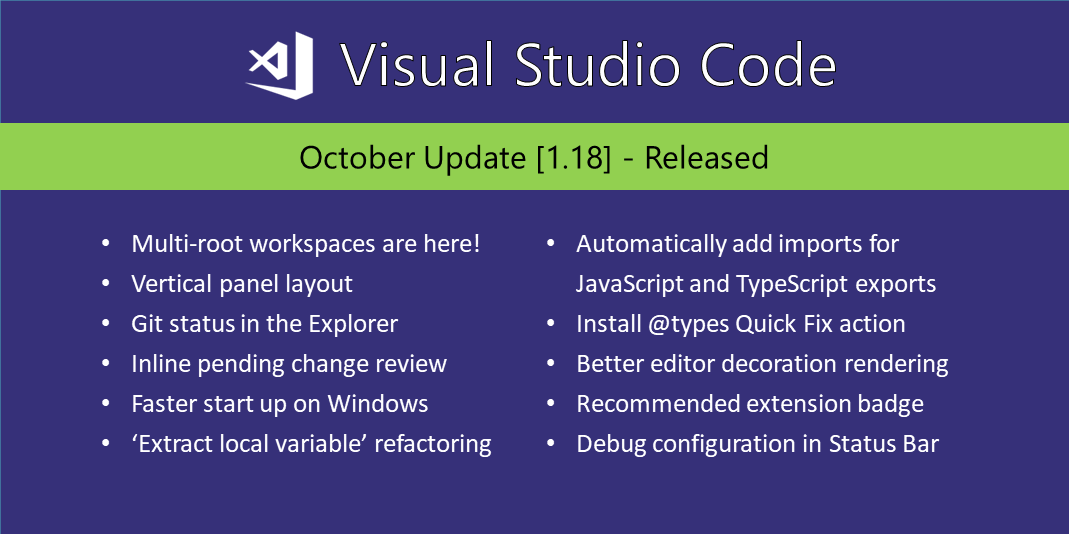
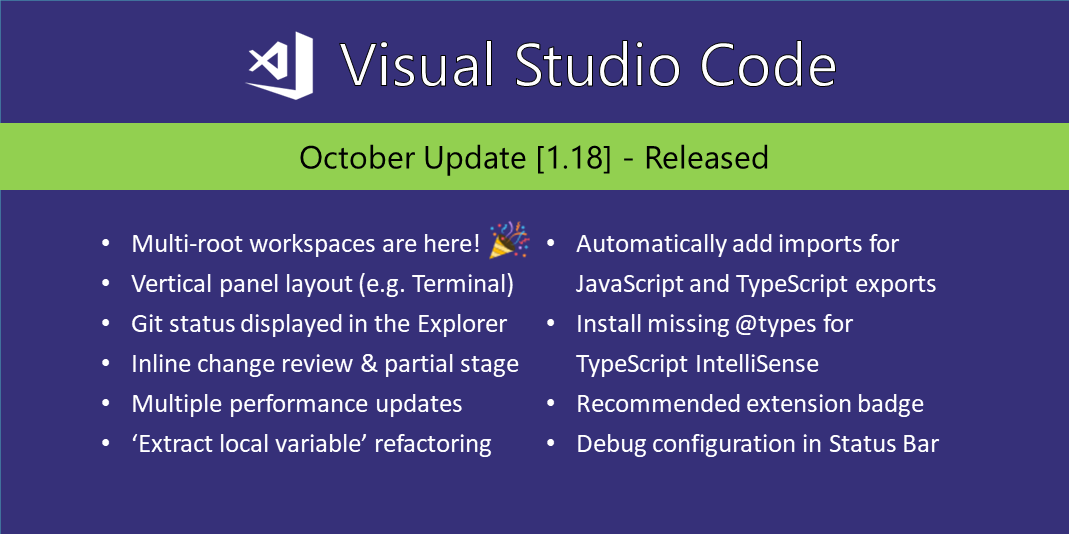
Update 1.18 social image per feedback

diff --git a/release-notes/v1_18.md b/release-notes/v1_18.md
@@ -11,9 +11,9 @@ Welcome to the October 2017 release of Visual Studio Code. There are a number of
 
 * **[Multi-root workspaces released to Stable](#support-for-multi-root-workspaces)** - Work on multiple projects simultaneously.
 * **[Vertical panel layout](#vertical-panels)** - Dock panels to either the bottom or right of your editor.
-* **[Git status in the Explorer](#git-status-in-file-explorer)** - See pending file changes in the File Explorer.
+* **[Git status in the Explorer](#git-status-in-file-explorer)** - See file change status highlighted in the File Explorer.
 * **[Inline pending change review](#inline-change-review)** - View pending changes and perform partial commits in the editor.
-* **[Faster start up on Windows](#windows-start-up)** - VS Code cold start is improved by 5 seconds.
+* **[Faster start-up on Windows](#windows-start-up)** - VS Code cold start is improved by 5 seconds.
 * **[Auto import for JS/TS](#auto-import-for-javascript-and-typescript)** - Selected an export symbol and the appropriate import is added to your file.
 * **[Extract local variable for JS/TS](#extract-local-refactoring-for-javascript-and-typescript)** - Refactor a new local variable based on your selection.
 * **[Install @types Quick Fix](#install-types-quick-fix-for-typescript)** - Add missing @types files to your project for npm module IntelliSense.
@@ -40,11 +40,11 @@ Support for multi-root workspaces is now enabled by default in the Stable releas
 
 ![Multi Root Workspaces](images/1_18/multiroot.gif)
 
-Please refer to our [documentation](https://code.visualstudio.com/docs/editor/multi-root-workspaces) for a full explanation of all the features that come with it. Extension authors should refer to our [wiki](https://github.com/Microsoft/vscode/wiki/Extension-Authoring:-Adopting-Multi-Root-Workspace-APIs) that explains the new extension APIs to make your extension ready for multi-root workspaces.
+Please refer to our [Multi-root Workspaces](https://code.visualstudio.com/docs/editor/multi-root-workspaces) documentation for a full explanation of all the features that come with it. Extension authors should refer to our [Adopting Multi Root Workspace APIs](https://github.com/Microsoft/vscode/wiki/Extension-Authoring:-Adopting-Multi-Root-Workspace-APIs) wiki page that explains the new extension APIs to make your extension ready for multi-root workspaces.
 
 ### Blue logo for Stable
 
-The VS Code logo for Stable release is now blue. You can read all about our icon journey in this [blog post](https://code.visualstudio.com/blogs/2017/10/24/theicon).
+The VS Code logo for the Stable release is now blue. You can read all about our icon journey in this [blog post](https://code.visualstudio.com/blogs/2017/10/24/theicon).
 
 ![VS Code Logo](images/1_18/blueicon.png)
 
